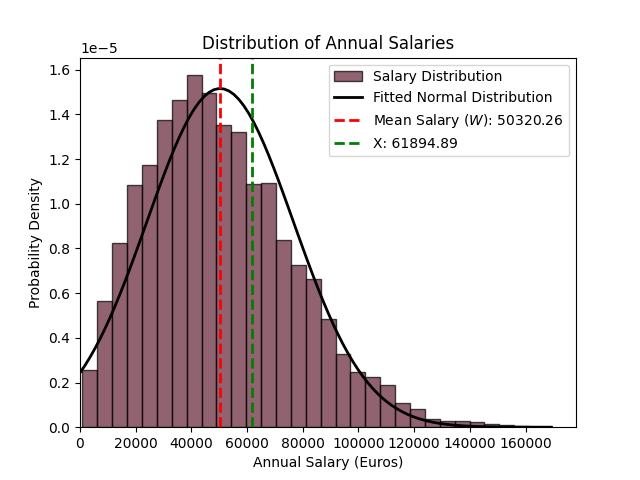
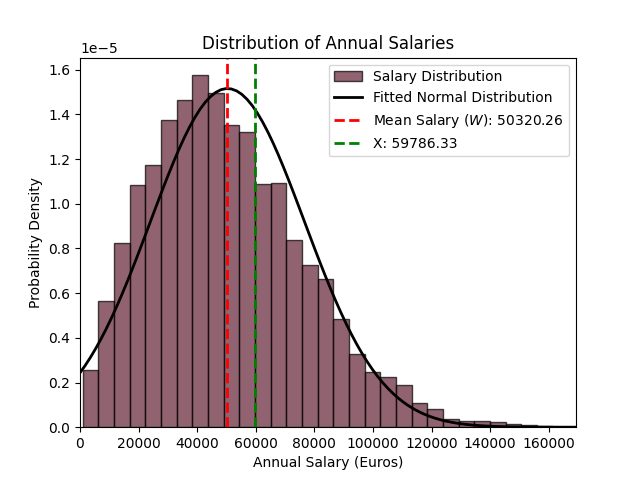
function updated

Changed region(s): [[0.125, 0.125, 0.9062, 0.9375], [0.5938, 0.2812, 0.7188, 0.3125]]

diff --git a/22063061.py b/22063061.py
@@ -1,0 +1,64 @@
+import pandas as pd
+import matplotlib.pyplot as plt
+import numpy as np
+from scipy.stats import norm
+
+# Read the data from the CSV file 
+data = pd.read_csv('data1-1 (1).csv', header=None, names=['Salary'])
+
+def get_statistical_description(data):
+    salary_data = data['Salary']
+    median = np.median(salary_data)
+    mode = salary_data.mode().iloc[0]
+    std = salary_data.std()
+    variance = np.var(salary_data)
+    kurtosis = salary_data.kurtosis()
+    skewness = salary_data.skew()
+    data_range = max(salary_data) - min(salary_data)
+    max_value = max(salary_data)
+    min_value = min(salary_data)
+    Q1 = np.percentile(salary_data, 25)
+    Q3 = np.percentile(salary_data, 75)
+    iqr = Q3 - Q1
+    return mode, median, std, variance, kurtosis, skewness, data_range, max_value, min_value, iqr
+
+# Assuming 'data' is a DataFrame with a 'Salary' column
+mode, median, std, variance, kurtosis, skewness, data_range, max_value, min_value, iqr = get_statistical_description(data)
+
+print(f"Mode: {mode}, Median: {median}, Std: {std}, Variance: {variance}, Kurtosis: {kurtosis}, Skewness: {skewness}, Range: {data_range}, Max: {max_value}, Min: {min_value}, IQR: {iqr}")
+
+def HistPlot(data):
+    # Plot the histogram
+    plt.hist(data, bins=30, density=True, alpha=0.7, color='#632134', edgecolor='black', label='Salary Distribution')
+
+    # Fit a normal distribution to the data
+    mu, std = norm.fit(data)
+    xmin, xmax = plt.xlim()
+    x = np.linspace(xmin, xmax, 100)
+    p = norm.pdf(x, mu, std)
+
+    # Plot the PDF
+    plt.plot(x, p, 'k', linewidth=2,label='Fitted Normal Distribution')
+
+    # Calculate and print the value X
+    mean_salary = np.mean(data)
+    plt.axvline(mean_salary, color='red', linestyle='dashed', linewidth=2, label=f'Mean Salary ($W$): {mean_salary:.2f}')
+    X = np.percentile(data,67)
+    plt.axvline(X, color='green', linestyle='dashed', linewidth=2, label=f'X: {X:.2f}')
+
+    # Add labels, title, and legend
+    plt.xlabel('Annual Salary (Euros)')
+    plt.ylabel('Probability Density')
+    plt.title('Distribution of Annual Salaries')
+    plt.legend()
+
+    # Set x-axis and y-axis limits to start from 0
+    plt.xlim(0, xmax)
+    plt.ylim(0, plt.ylim()[1])
+
+    plt.savefig('salary_distribution_plot.png')
+    # Show the plot
+    plt.show()
+
+# Drop NaN values and use the Series
+HistPlot(data['Salary'])
